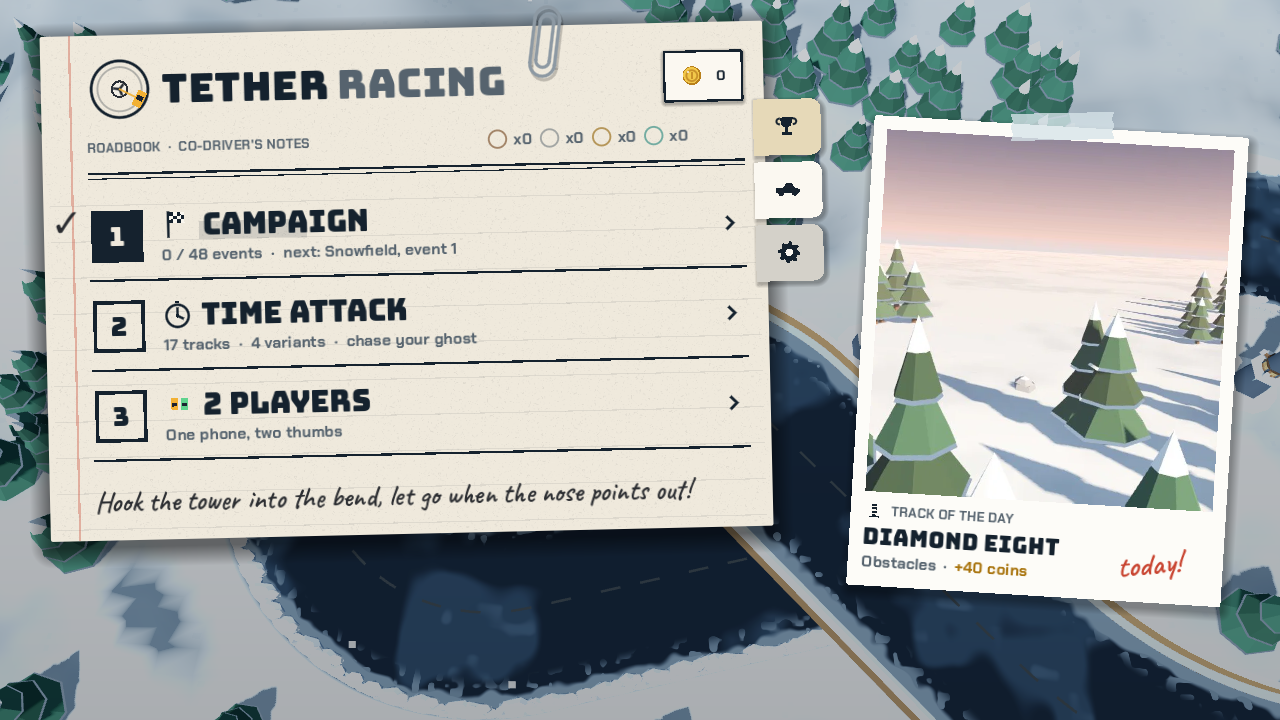
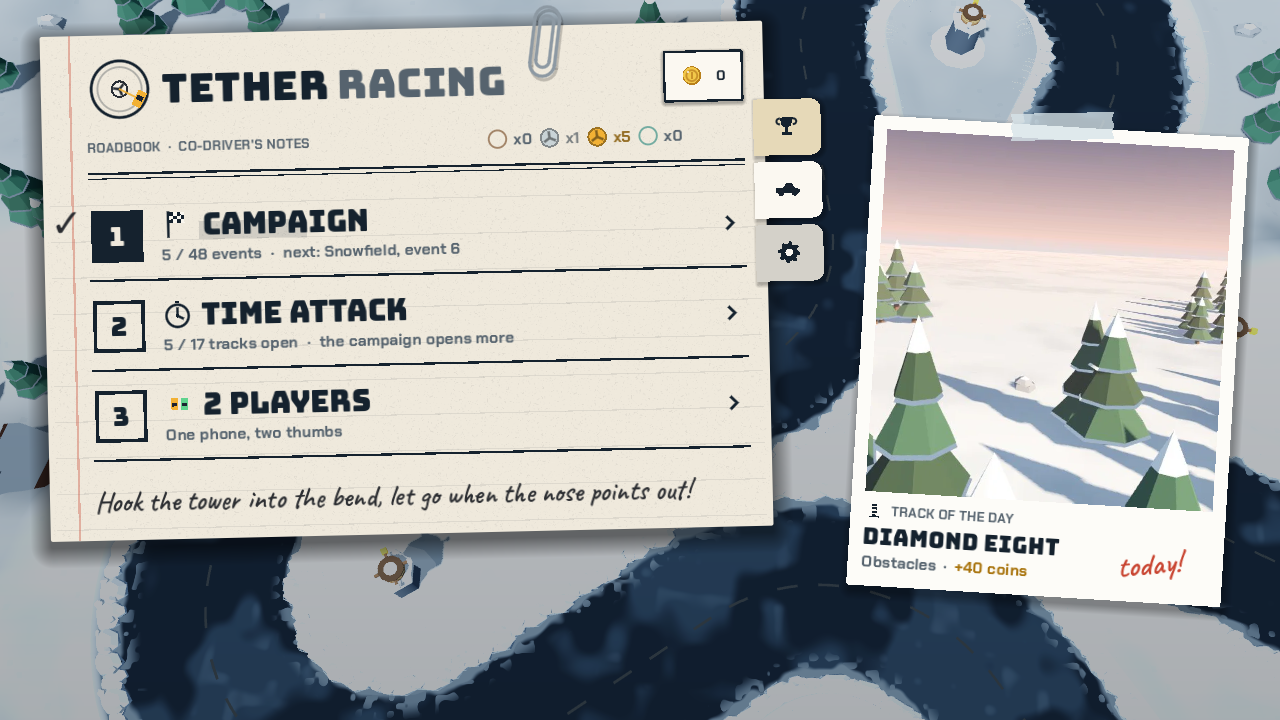
Time attack tracks open with the campaign (#81)
* Time attack tracks open with the campaign

A track is playable in Time attack once a campaign event on it is
unlocked. Shut tracks are greyed with a padlock and the event that opens
them; the list follows campaign order and swipes skip shut tracks.
Tracks already raced in Time attack stay open (kept as flags once).

Claude-Session: https://claude.ai/code/session_01VxP4fpr5FPNNi2D9Zsq73N

* Re-render README home screenshot (Time attack line)

Claude-Session: https://claude.ai/code/session_01VxP4fpr5FPNNi2D9Zsq73N

---------

diff --git a/AGENTS.md b/AGENTS.md
@@ -51,6 +51,7 @@ godot --headless --path . --script tests/cosmetics_test.gd  # garage items: pric
 godot --headless --path . --script tests/economy_test.gd    # coins, Track of the day, awards, buying, progress reset
 godot --headless --path . --script tests/medals_test.gd     # medals saved and shown: race wins, layout bumps
 godot --headless --path . --script tests/race_results_test.gd # race results = order over the line, medal from it
+godot --headless --path . --script tests/attack_unlock_test.gd # Time attack tracks open with the campaign
 godot --headless --path . --script tests/colours_test.gd    # no blue accent in UI, icons, splash, web page
 godot --headless --path . --script tests/award_anim_test.gd # every award has a medallion scene that draws
 godot --headless --path . --script tests/rivals_test.gd    # rival tiers get harder, stay beatable (~4 min)
@@ -119,6 +120,12 @@ Only redo the ones where the change is visible, and put before/after images in t
   Gold on all 12 events finishes a world (`Campaign.cleared`, `Campaign.GOLD`). Finished worlds are
   saved as `done_<theme>` flags, so a stricter rule never re-locks a world; an event that already
   has a medal stays playable. Covered by `tests/economy_test.gd`.
+- Time attack tracks (Guillaume, 2026-11-13): a track is open in Time attack once a campaign event on
+  it is unlocked (`Campaign.attack_tracks()`); shut ones are greyed with a padlock and skipped by the
+  swipe. Tracks raced before the rule were kept as `[attack]` flags (`attack_gate`). So every track
+  must appear in some campaign event, or it can never open (`tests/attack_unlock_test.gd` checks).
+  2-player races and the Track of the day ignore the lock. A menu test that needs every track open
+  sets those flags in memory (see `tests/swipe_test.gd`).
 - Race vs Time trial scoring: a Race is won by the first car over the line; time penalties (+1 s per
   post, +0.25 s per missed gem) only exist in Time trial (`Race.OBS_PEN`, `TOKEN_PEN`). Anything that
   says where the player finished (results title, HUD position, medal) reads `Race.result()` /
